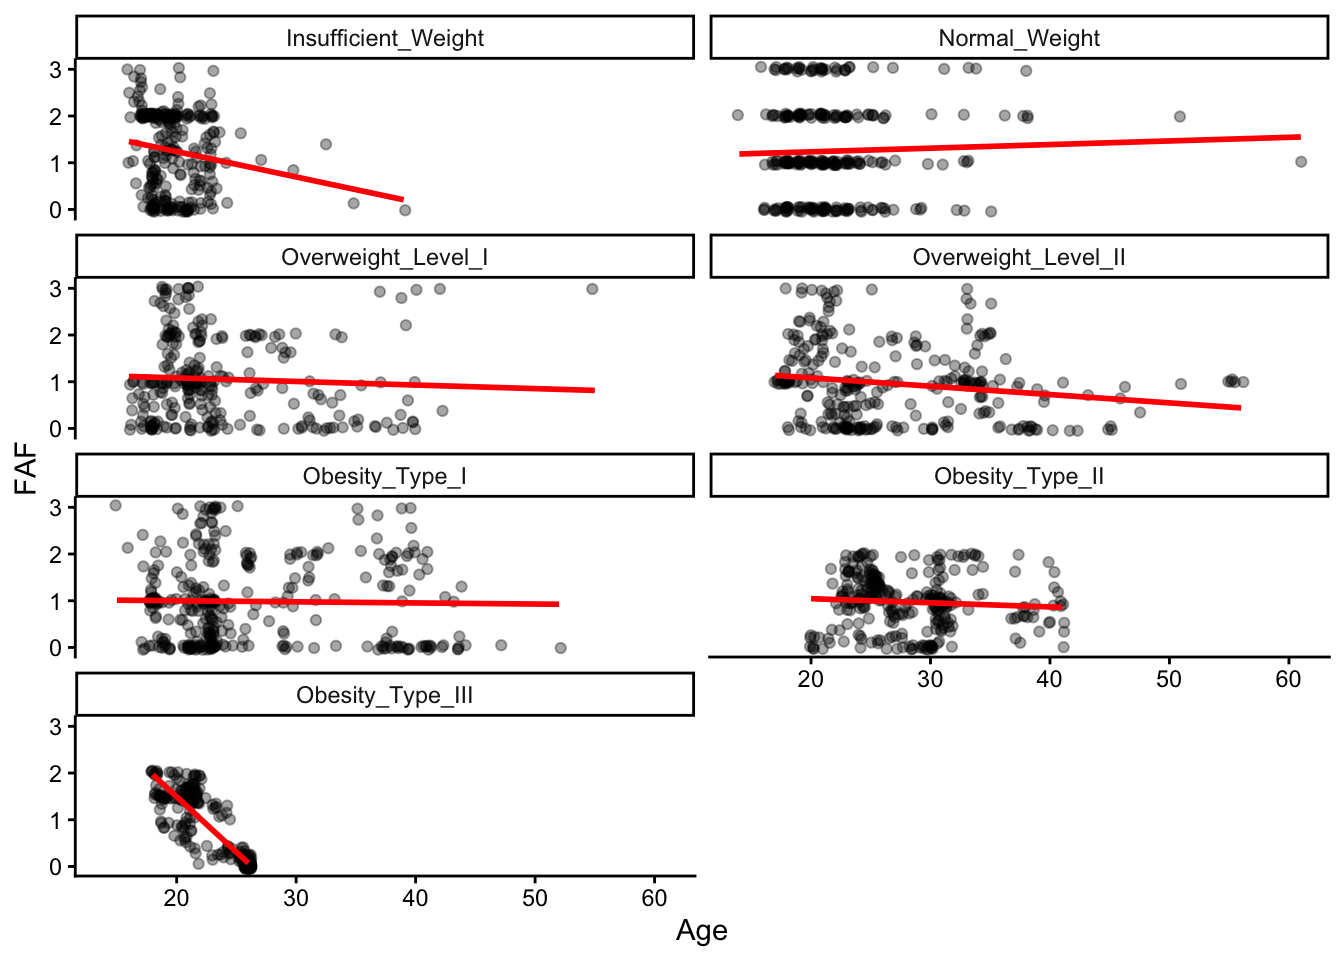
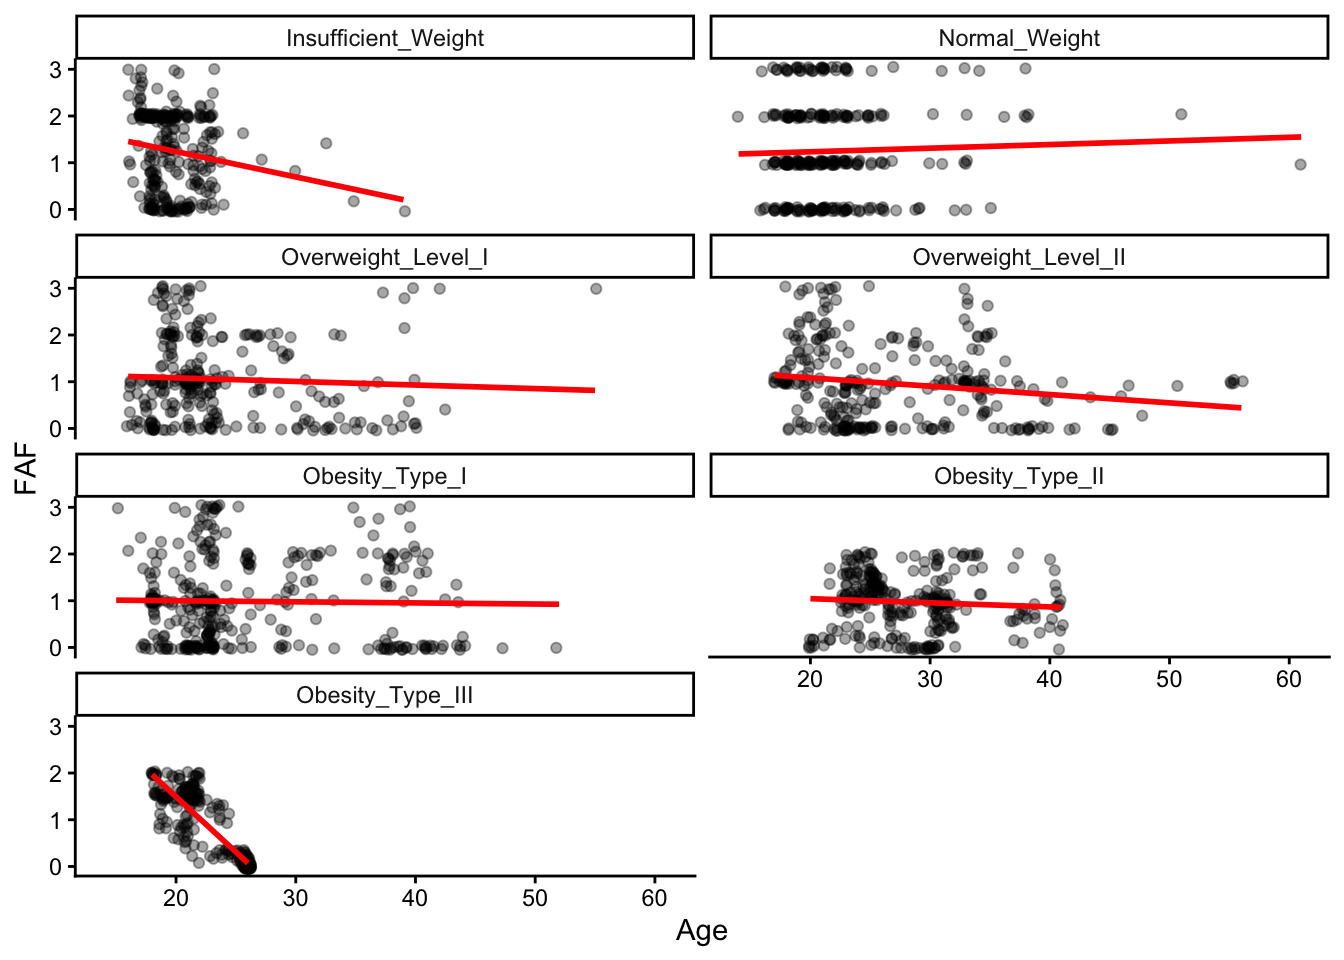
5

diff --git a/docs/projects/final-report.html b/docs/projects/final-report.html
@@ -163,17 +163,14 @@ pre > code.sourceCode > span > a:first-child::before { text-decoration: underlin
   <ul class="collapse">
   <li><a href="#introduction" id="toc-introduction" class="nav-link" data-scroll-target="#introduction">Introduction</a></li>
   <li><a href="#methods" id="toc-methods" class="nav-link" data-scroll-target="#methods">Methods</a></li>
-  <li><a href="#results" id="toc-results" class="nav-link" data-scroll-target="#results">Results</a></li>
-  <li><a href="#library" id="toc-library" class="nav-link" data-scroll-target="#library">LIBRARY</a></li>
+  <li><a href="#results" id="toc-results" class="nav-link" data-scroll-target="#results">Results</a>
+  <ul class="collapse">
+  <li><a href="#library" id="toc-library" class="nav-link" data-scroll-target="#library">Library</a></li>
   <li><a href="#structure-of-the-dataset-summary-statistics-missing-values-and-the-distribution-of-obesity-levels." id="toc-structure-of-the-dataset-summary-statistics-missing-values-and-the-distribution-of-obesity-levels." class="nav-link" data-scroll-target="#structure-of-the-dataset-summary-statistics-missing-values-and-the-distribution-of-obesity-levels.">Structure of the dataset, summary statistics, missing values, and the distribution of obesity levels.</a></li>
   <li><a href="#family-history." id="toc-family-history." class="nav-link" data-scroll-target="#family-history.">FAMILY HISTORY.</a></li>
-  <li><a href="#family-history.-how-did-family-history-of-obesity-vary-across-the-different-obesity-levels" id="toc-family-history.-how-did-family-history-of-obesity-vary-across-the-different-obesity-levels" class="nav-link" data-scroll-target="#family-history.-how-did-family-history-of-obesity-vary-across-the-different-obesity-levels">FAMILY HISTORY. How did family history of obesity vary across the different obesity levels?</a></li>
   <li><a href="#physical-activity.-was-the-physical-activity-data-normally-distributed" id="toc-physical-activity.-was-the-physical-activity-data-normally-distributed" class="nav-link" data-scroll-target="#physical-activity.-was-the-physical-activity-data-normally-distributed">PHYSICAL ACTIVITY. Was the physical activity data normally distributed?</a></li>
-  <li><a href="#physical-activity.-how-do-the-physical-activity-levels-compare-across-obesity-levels" id="toc-physical-activity.-how-do-the-physical-activity-levels-compare-across-obesity-levels" class="nav-link" data-scroll-target="#physical-activity.-how-do-the-physical-activity-levels-compare-across-obesity-levels">PHYSICAL ACTIVITY. How do the physical activity levels compare across obesity levels?</a></li>
-  <li><a href="#physical-activity.-how-do-physical-activity-levels-compare-across-obesity-levels-and-between-genders" id="toc-physical-activity.-how-do-physical-activity-levels-compare-across-obesity-levels-and-between-genders" class="nav-link" data-scroll-target="#physical-activity.-how-do-physical-activity-levels-compare-across-obesity-levels-and-between-genders">PHYSICAL ACTIVITY. How do physical activity levels compare across obesity levels and between genders?</a></li>
-  <li><a href="#physical-activity.-how-do-physical-activity-levels-vary-across-obesity-levels-and-family-history-groups" id="toc-physical-activity.-how-do-physical-activity-levels-vary-across-obesity-levels-and-family-history-groups" class="nav-link" data-scroll-target="#physical-activity.-how-do-physical-activity-levels-vary-across-obesity-levels-and-family-history-groups">PHYSICAL ACTIVITY. How do physical activity levels vary across obesity levels and family history groups?</a></li>
-  <li><a href="#physical-activity.-how-does-physical-activity-vary-with-age-across-obesity-levels" id="toc-physical-activity.-how-does-physical-activity-vary-with-age-across-obesity-levels" class="nav-link" data-scroll-target="#physical-activity.-how-does-physical-activity-vary-with-age-across-obesity-levels">PHYSICAL ACTIVITY. How does physical activity vary with age across obesity levels?</a></li>
   <li><a href="#high-calorie-foods-intake-favc.-is-the-consumption-of-high-calorie-foods-favc-associated-with-obesity-level" id="toc-high-calorie-foods-intake-favc.-is-the-consumption-of-high-calorie-foods-favc-associated-with-obesity-level" class="nav-link" data-scroll-target="#high-calorie-foods-intake-favc.-is-the-consumption-of-high-calorie-foods-favc-associated-with-obesity-level">HIGH-CALORIE FOODS INTAKE (FAVC). Is the consumption of high-calorie foods (FAVC) associated with obesity level?</a></li>
+  </ul></li>
   <li><a href="#conclusions" id="toc-conclusions" class="nav-link" data-scroll-target="#conclusions">Conclusions</a></li>
   <li><a href="#references" id="toc-references" class="nav-link" data-scroll-target="#references">References:</a></li>
   </ul></li>
@@ -227,9 +224,8 @@ pre > code.sourceCode > span > a:first-child::before { text-decoration: underlin
 </section>
 <section id="results" class="level2">
 <h2 class="anchored" data-anchor-id="results">Results</h2>
-</section>
-<section id="library" class="level2">
-<h2 class="anchored" data-anchor-id="library">LIBRARY</h2>
+<section id="library" class="level3">
+<h3 class="anchored" data-anchor-id="library">Library</h3>
 <div class="cell">
 <div class="code-copy-outer-scaffold"><div class="sourceCode cell-code" id="cb1"><pre class="sourceCode r code-with-copy"><code class="sourceCode r"><span id="cb1-1"><a href="#cb1-1" aria-hidden="true" tabindex="-1"></a><span class="co"># Library</span></span>
 <span id="cb1-2"><a href="#cb1-2" aria-hidden="true" tabindex="-1"></a><span class="fu">library</span>(ggplot2)</span>
@@ -240,8 +236,8 @@ pre > code.sourceCode > span > a:first-child::before { text-decoration: underlin
 <span id="cb1-7"><a href="#cb1-7" aria-hidden="true" tabindex="-1"></a><span class="fu">library</span>(rstatix)</span></code></pre></div><button title="Copy to Clipboard" class="code-copy-button"><i class="bi"></i></button></div>
 </div>
 </section>
-<section id="structure-of-the-dataset-summary-statistics-missing-values-and-the-distribution-of-obesity-levels." class="level2">
-<h2 class="anchored" data-anchor-id="structure-of-the-dataset-summary-statistics-missing-values-and-the-distribution-of-obesity-levels.">Structure of the dataset, summary statistics, missing values, and the distribution of obesity levels.</h2>
+<section id="structure-of-the-dataset-summary-statistics-missing-values-and-the-distribution-of-obesity-levels." class="level3">
+<h3 class="anchored" data-anchor-id="structure-of-the-dataset-summary-statistics-missing-values-and-the-distribution-of-obesity-levels.">Structure of the dataset, summary statistics, missing values, and the distribution of obesity levels.</h3>
 <div class="cell">
 <div class="code-copy-outer-scaffold"><div class="sourceCode cell-code" id="cb2"><pre class="sourceCode r code-with-copy"><code class="sourceCode r"><span id="cb2-1"><a href="#cb2-1" aria-hidden="true" tabindex="-1"></a><span class="fu">getwd</span>()</span></code></pre></div><button title="Copy to Clipboard" class="code-copy-button"><i class="bi"></i></button></div>
 <div class="cell-output cell-output-stdout">
@@ -391,8 +387,8 @@ Insufficient_Weight       Normal_Weight  Overweight_Level_I Overweight_Level_II
 </div>
 </div>
 </section>
-<section id="family-history." class="level2">
-<h2 class="anchored" data-anchor-id="family-history.">FAMILY HISTORY.</h2>
+<section id="family-history." class="level3">
+<h3 class="anchored" data-anchor-id="family-history.">FAMILY HISTORY.</h3>
 <div class="cell">
 <div class="code-copy-outer-scaffold"><div class="sourceCode cell-code" id="cb21"><pre class="sourceCode r code-with-copy"><code class="sourceCode r"><span id="cb21-1"><a href="#cb21-1" aria-hidden="true" tabindex="-1"></a><span class="fu">table</span>(Obesity<span class="sc">$</span>family_history)</span></code></pre></div><button title="Copy to Clipboard" class="code-copy-button"><i class="bi"></i></button></div>
 <div class="cell-output cell-output-stdout">
@@ -418,9 +414,8 @@ Insufficient_Weight       Normal_Weight  Overweight_Level_I Overweight_Level_II
   yes            344             296              324</code></pre>
 </div>
 </div>
-</section>
-<section id="family-history.-how-did-family-history-of-obesity-vary-across-the-different-obesity-levels" class="level2">
-<h2 class="anchored" data-anchor-id="family-history.-how-did-family-history-of-obesity-vary-across-the-different-obesity-levels">FAMILY HISTORY. How did family history of obesity vary across the different obesity levels?</h2>
+<section id="how-did-family-history-of-obesity-vary-across-the-different-obesity-levels" class="level4">
+<h4 class="anchored" data-anchor-id="how-did-family-history-of-obesity-vary-across-the-different-obesity-levels">How did family history of obesity vary across the different obesity levels?</h4>
 <div class="cell">
 <div class="code-copy-outer-scaffold"><div class="sourceCode cell-code" id="cb27"><pre class="sourceCode r code-with-copy"><code class="sourceCode r"><span id="cb27-1"><a href="#cb27-1" aria-hidden="true" tabindex="-1"></a><span class="fu">chisq.test</span>(table_history)</span></code></pre></div><button title="Copy to Clipboard" class="code-copy-button"><i class="bi"></i></button></div>
 <div class="cell-output cell-output-stdout">
@@ -457,8 +452,9 @@ X-squared = 621.98, df = 6, p-value &lt; 2.2e-16</code></pre>
 <div class="code-copy-outer-scaffold"><div class="sourceCode cell-code" id="cb30"><pre class="sourceCode r code-with-copy"><code class="sourceCode r"><span id="cb30-1"><a href="#cb30-1" aria-hidden="true" tabindex="-1"></a><span class="co"># The Chi-square test showed a significant association between family history and obesity level (χ² = 621.98, p &lt; 0.001). Participants with a family history of obesity were much more common in the higher obesity categories.</span></span></code></pre></div><button title="Copy to Clipboard" class="code-copy-button"><i class="bi"></i></button></div>
 </div>
 </section>
-<section id="physical-activity.-was-the-physical-activity-data-normally-distributed" class="level2">
-<h2 class="anchored" data-anchor-id="physical-activity.-was-the-physical-activity-data-normally-distributed">PHYSICAL ACTIVITY. Was the physical activity data normally distributed?</h2>
+</section>
+<section id="physical-activity.-was-the-physical-activity-data-normally-distributed" class="level3">
+<h3 class="anchored" data-anchor-id="physical-activity.-was-the-physical-activity-data-normally-distributed">PHYSICAL ACTIVITY. Was the physical activity data normally distributed?</h3>
 <div class="cell">
 <div class="code-copy-outer-scaffold"><div class="sourceCode cell-code" id="cb31"><pre class="sourceCode r code-with-copy"><code class="sourceCode r"><span id="cb31-1"><a href="#cb31-1" aria-hidden="true" tabindex="-1"></a><span class="fu">summary</span>(Obesity<span class="sc">$</span>FAF)</span></code></pre></div><button title="Copy to Clipboard" class="code-copy-button"><i class="bi"></i></button></div>
 <div class="cell-output cell-output-stdout">
@@ -514,9 +510,8 @@ Signif. codes:  0 '***' 0.001 '**' 0.01 '*' 0.05 '.' 0.1 ' ' 1</code></pre>
 </div>
 <div class="code-copy-outer-scaffold"><div class="sourceCode cell-code" id="cb39"><pre class="sourceCode r code-with-copy"><code class="sourceCode r"><span id="cb39-1"><a href="#cb39-1" aria-hidden="true" tabindex="-1"></a><span class="co">#Physical activity was not normally distributed, and the assumption of equal variances was also violated. Therefore, non-parametric methods were used for the analysis. </span></span></code></pre></div><button title="Copy to Clipboard" class="code-copy-button"><i class="bi"></i></button></div>
 </div>
-</section>
-<section id="physical-activity.-how-do-the-physical-activity-levels-compare-across-obesity-levels" class="level2">
-<h2 class="anchored" data-anchor-id="physical-activity.-how-do-the-physical-activity-levels-compare-across-obesity-levels">PHYSICAL ACTIVITY. How do the physical activity levels compare across obesity levels?</h2>
+<section id="how-do-the-physical-activity-levels-compare-across-obesity-levels" class="level4">
+<h4 class="anchored" data-anchor-id="how-do-the-physical-activity-levels-compare-across-obesity-levels">How do the physical activity levels compare across obesity levels?</h4>
 <div class="cell">
 <div class="code-copy-outer-scaffold"><div class="sourceCode cell-code" id="cb40"><pre class="sourceCode r code-with-copy"><code class="sourceCode r"><span id="cb40-1"><a href="#cb40-1" aria-hidden="true" tabindex="-1"></a><span class="co"># Was there a significant difference in physical activity across obesity levels?</span></span>
 <span id="cb40-2"><a href="#cb40-2" aria-hidden="true" tabindex="-1"></a></span>
@@ -643,8 +638,8 @@ Kruskal-Wallis chi-squared = 88.42, df = 6, p-value &lt; 2.2e-16</code></pre>
 <div class="code-copy-outer-scaffold"><div class="sourceCode cell-code" id="cb47"><pre class="sourceCode r code-with-copy"><code class="sourceCode r"><span id="cb47-1"><a href="#cb47-1" aria-hidden="true" tabindex="-1"></a><span class="co"># People with Insufficient Weight and Normal Weight had the highest average physical activity, while participants with Obesity Type III had the lowest average physical activity. Several pairwise comparisons were statistically significant according to the Games-Howell test. </span></span></code></pre></div><button title="Copy to Clipboard" class="code-copy-button"><i class="bi"></i></button></div>
 </div>
 </section>
-<section id="physical-activity.-how-do-physical-activity-levels-compare-across-obesity-levels-and-between-genders" class="level2">
-<h2 class="anchored" data-anchor-id="physical-activity.-how-do-physical-activity-levels-compare-across-obesity-levels-and-between-genders">PHYSICAL ACTIVITY. How do physical activity levels compare across obesity levels and between genders?</h2>
+<section id="how-do-physical-activity-levels-compare-across-obesity-levels-and-between-genders" class="level4">
+<h4 class="anchored" data-anchor-id="how-do-physical-activity-levels-compare-across-obesity-levels-and-between-genders">How do physical activity levels compare across obesity levels and between genders?</h4>
 <div class="cell">
 <div class="code-copy-outer-scaffold"><div class="sourceCode cell-code" id="cb48"><pre class="sourceCode r code-with-copy"><code class="sourceCode r"><span id="cb48-1"><a href="#cb48-1" aria-hidden="true" tabindex="-1"></a><span class="co"># Gender differences</span></span>
 <span id="cb48-2"><a href="#cb48-2" aria-hidden="true" tabindex="-1"></a>Obesity <span class="sc">%&gt;%</span></span>
@@ -753,8 +748,8 @@ Kruskal-Wallis chi-squared = 88.42, df = 6, p-value &lt; 2.2e-16</code></pre>
 <div class="code-copy-outer-scaffold"><div class="sourceCode cell-code" id="cb53"><pre class="sourceCode r code-with-copy"><code class="sourceCode r"><span id="cb53-1"><a href="#cb53-1" aria-hidden="true" tabindex="-1"></a><span class="co"># Males generally had higher average physical activity than females within the same obesity category. Some obesity categories contained very few participants of one gender, and was excluded from the plot.</span></span></code></pre></div><button title="Copy to Clipboard" class="code-copy-button"><i class="bi"></i></button></div>
 </div>
 </section>
-<section id="physical-activity.-how-do-physical-activity-levels-vary-across-obesity-levels-and-family-history-groups" class="level2">
-<h2 class="anchored" data-anchor-id="physical-activity.-how-do-physical-activity-levels-vary-across-obesity-levels-and-family-history-groups">PHYSICAL ACTIVITY. How do physical activity levels vary across obesity levels and family history groups?</h2>
+<section id="how-do-physical-activity-levels-vary-across-obesity-levels-and-family-history-groups" class="level4">
+<h4 class="anchored" data-anchor-id="how-do-physical-activity-levels-vary-across-obesity-levels-and-family-history-groups">How do physical activity levels vary across obesity levels and family history groups?</h4>
 <div class="cell">
 <div class="code-copy-outer-scaffold"><div class="sourceCode cell-code" id="cb54"><pre class="sourceCode r code-with-copy"><code class="sourceCode r"><span id="cb54-1"><a href="#cb54-1" aria-hidden="true" tabindex="-1"></a><span class="co"># </span></span>
 <span id="cb54-2"><a href="#cb54-2" aria-hidden="true" tabindex="-1"></a></span>
@@ -793,8 +788,8 @@ Kruskal-Wallis chi-squared = 88.42, df = 6, p-value &lt; 2.2e-16</code></pre>
 <div class="code-copy-outer-scaffold"><div class="sourceCode cell-code" id="cb55"><pre class="sourceCode r code-with-copy"><code class="sourceCode r"><span id="cb55-1"><a href="#cb55-1" aria-hidden="true" tabindex="-1"></a><span class="co"># The heat map showed that mean physical activity generally decreased as obesity level increased, especially among participants with a family history of obesity.</span></span></code></pre></div><button title="Copy to Clipboard" class="code-copy-button"><i class="bi"></i></button></div>
 </div>
 </section>
-<section id="physical-activity.-how-does-physical-activity-vary-with-age-across-obesity-levels" class="level2">
-<h2 class="anchored" data-anchor-id="physical-activity.-how-does-physical-activity-vary-with-age-across-obesity-levels">PHYSICAL ACTIVITY. How does physical activity vary with age across obesity levels?</h2>
+<section id="how-does-physical-activity-vary-with-age-across-obesity-levels" class="level4">
+<h4 class="anchored" data-anchor-id="how-does-physical-activity-vary-with-age-across-obesity-levels">How does physical activity vary with age across obesity levels?</h4>
 <div class="cell">
 <div class="code-copy-outer-scaffold"><div class="sourceCode cell-code" id="cb56"><pre class="sourceCode r code-with-copy"><code class="sourceCode r"><span id="cb56-1"><a href="#cb56-1" aria-hidden="true" tabindex="-1"></a><span class="fu">summary</span>(Obesity<span class="sc">$</span>Age)</span></code></pre></div><button title="Copy to Clipboard" class="code-copy-button"><i class="bi"></i></button></div>
 <div class="cell-output cell-output-stdout">
@@ -819,8 +814,9 @@ Kruskal-Wallis chi-squared = 88.42, df = 6, p-value &lt; 2.2e-16</code></pre>
 <div class="code-copy-outer-scaffold"><div class="sourceCode cell-code" id="cb60"><pre class="sourceCode r code-with-copy"><code class="sourceCode r"><span id="cb60-1"><a href="#cb60-1" aria-hidden="true" tabindex="-1"></a><span class="co"># The scatter plots showed a weak relationship between age and physical activity across most obesity groups. However, the majority of participants were between 20 and 40 years of age, resulting in a limited sample size for older age groups. Therefore, conclusions regarding older participants should be interpreted with caution. The strongest age-related decline in physical activity was observed among participants with Obesity Type III.</span></span></code></pre></div><button title="Copy to Clipboard" class="code-copy-button"><i class="bi"></i></button></div>
 </div>
 </section>
-<section id="high-calorie-foods-intake-favc.-is-the-consumption-of-high-calorie-foods-favc-associated-with-obesity-level" class="level2">
-<h2 class="anchored" data-anchor-id="high-calorie-foods-intake-favc.-is-the-consumption-of-high-calorie-foods-favc-associated-with-obesity-level">HIGH-CALORIE FOODS INTAKE (FAVC). Is the consumption of high-calorie foods (FAVC) associated with obesity level?</h2>
+</section>
+<section id="high-calorie-foods-intake-favc.-is-the-consumption-of-high-calorie-foods-favc-associated-with-obesity-level" class="level3">
+<h3 class="anchored" data-anchor-id="high-calorie-foods-intake-favc.-is-the-consumption-of-high-calorie-foods-favc-associated-with-obesity-level">HIGH-CALORIE FOODS INTAKE (FAVC). Is the consumption of high-calorie foods (FAVC) associated with obesity level?</h3>
 <div class="cell">
 <div class="code-copy-outer-scaffold"><div class="sourceCode cell-code" id="cb61"><pre class="sourceCode r code-with-copy"><code class="sourceCode r"><span id="cb61-1"><a href="#cb61-1" aria-hidden="true" tabindex="-1"></a><span class="fu">summary</span>(Obesity<span class="sc">$</span>FAVC)</span></code></pre></div><button title="Copy to Clipboard" class="code-copy-button"><i class="bi"></i></button></div>
 <div class="cell-output cell-output-stdout">
@@ -897,6 +893,7 @@ X-squared = 233.34, df = 6, p-value &lt; 2.2e-16</code></pre>
 </div>
 <div class="code-copy-outer-scaffold"><div class="sourceCode cell-code" id="cb68"><pre class="sourceCode r code-with-copy"><code class="sourceCode r"><span id="cb68-1"><a href="#cb68-1" aria-hidden="true" tabindex="-1"></a><span class="co"># The Chi-square test also found a significant association between obesity and consumption of high-calorie foods (χ² = 233.34, p &lt; 0.001). High-calorie food intake was more common among participants in the obesity categories.</span></span></code></pre></div><button title="Copy to Clipboard" class="code-copy-button"><i class="bi"></i></button></div>
 </div>
+</section>
 </section>
 <section id="conclusions" class="level2">
 <h2 class="anchored" data-anchor-id="conclusions">Conclusions</h2>
